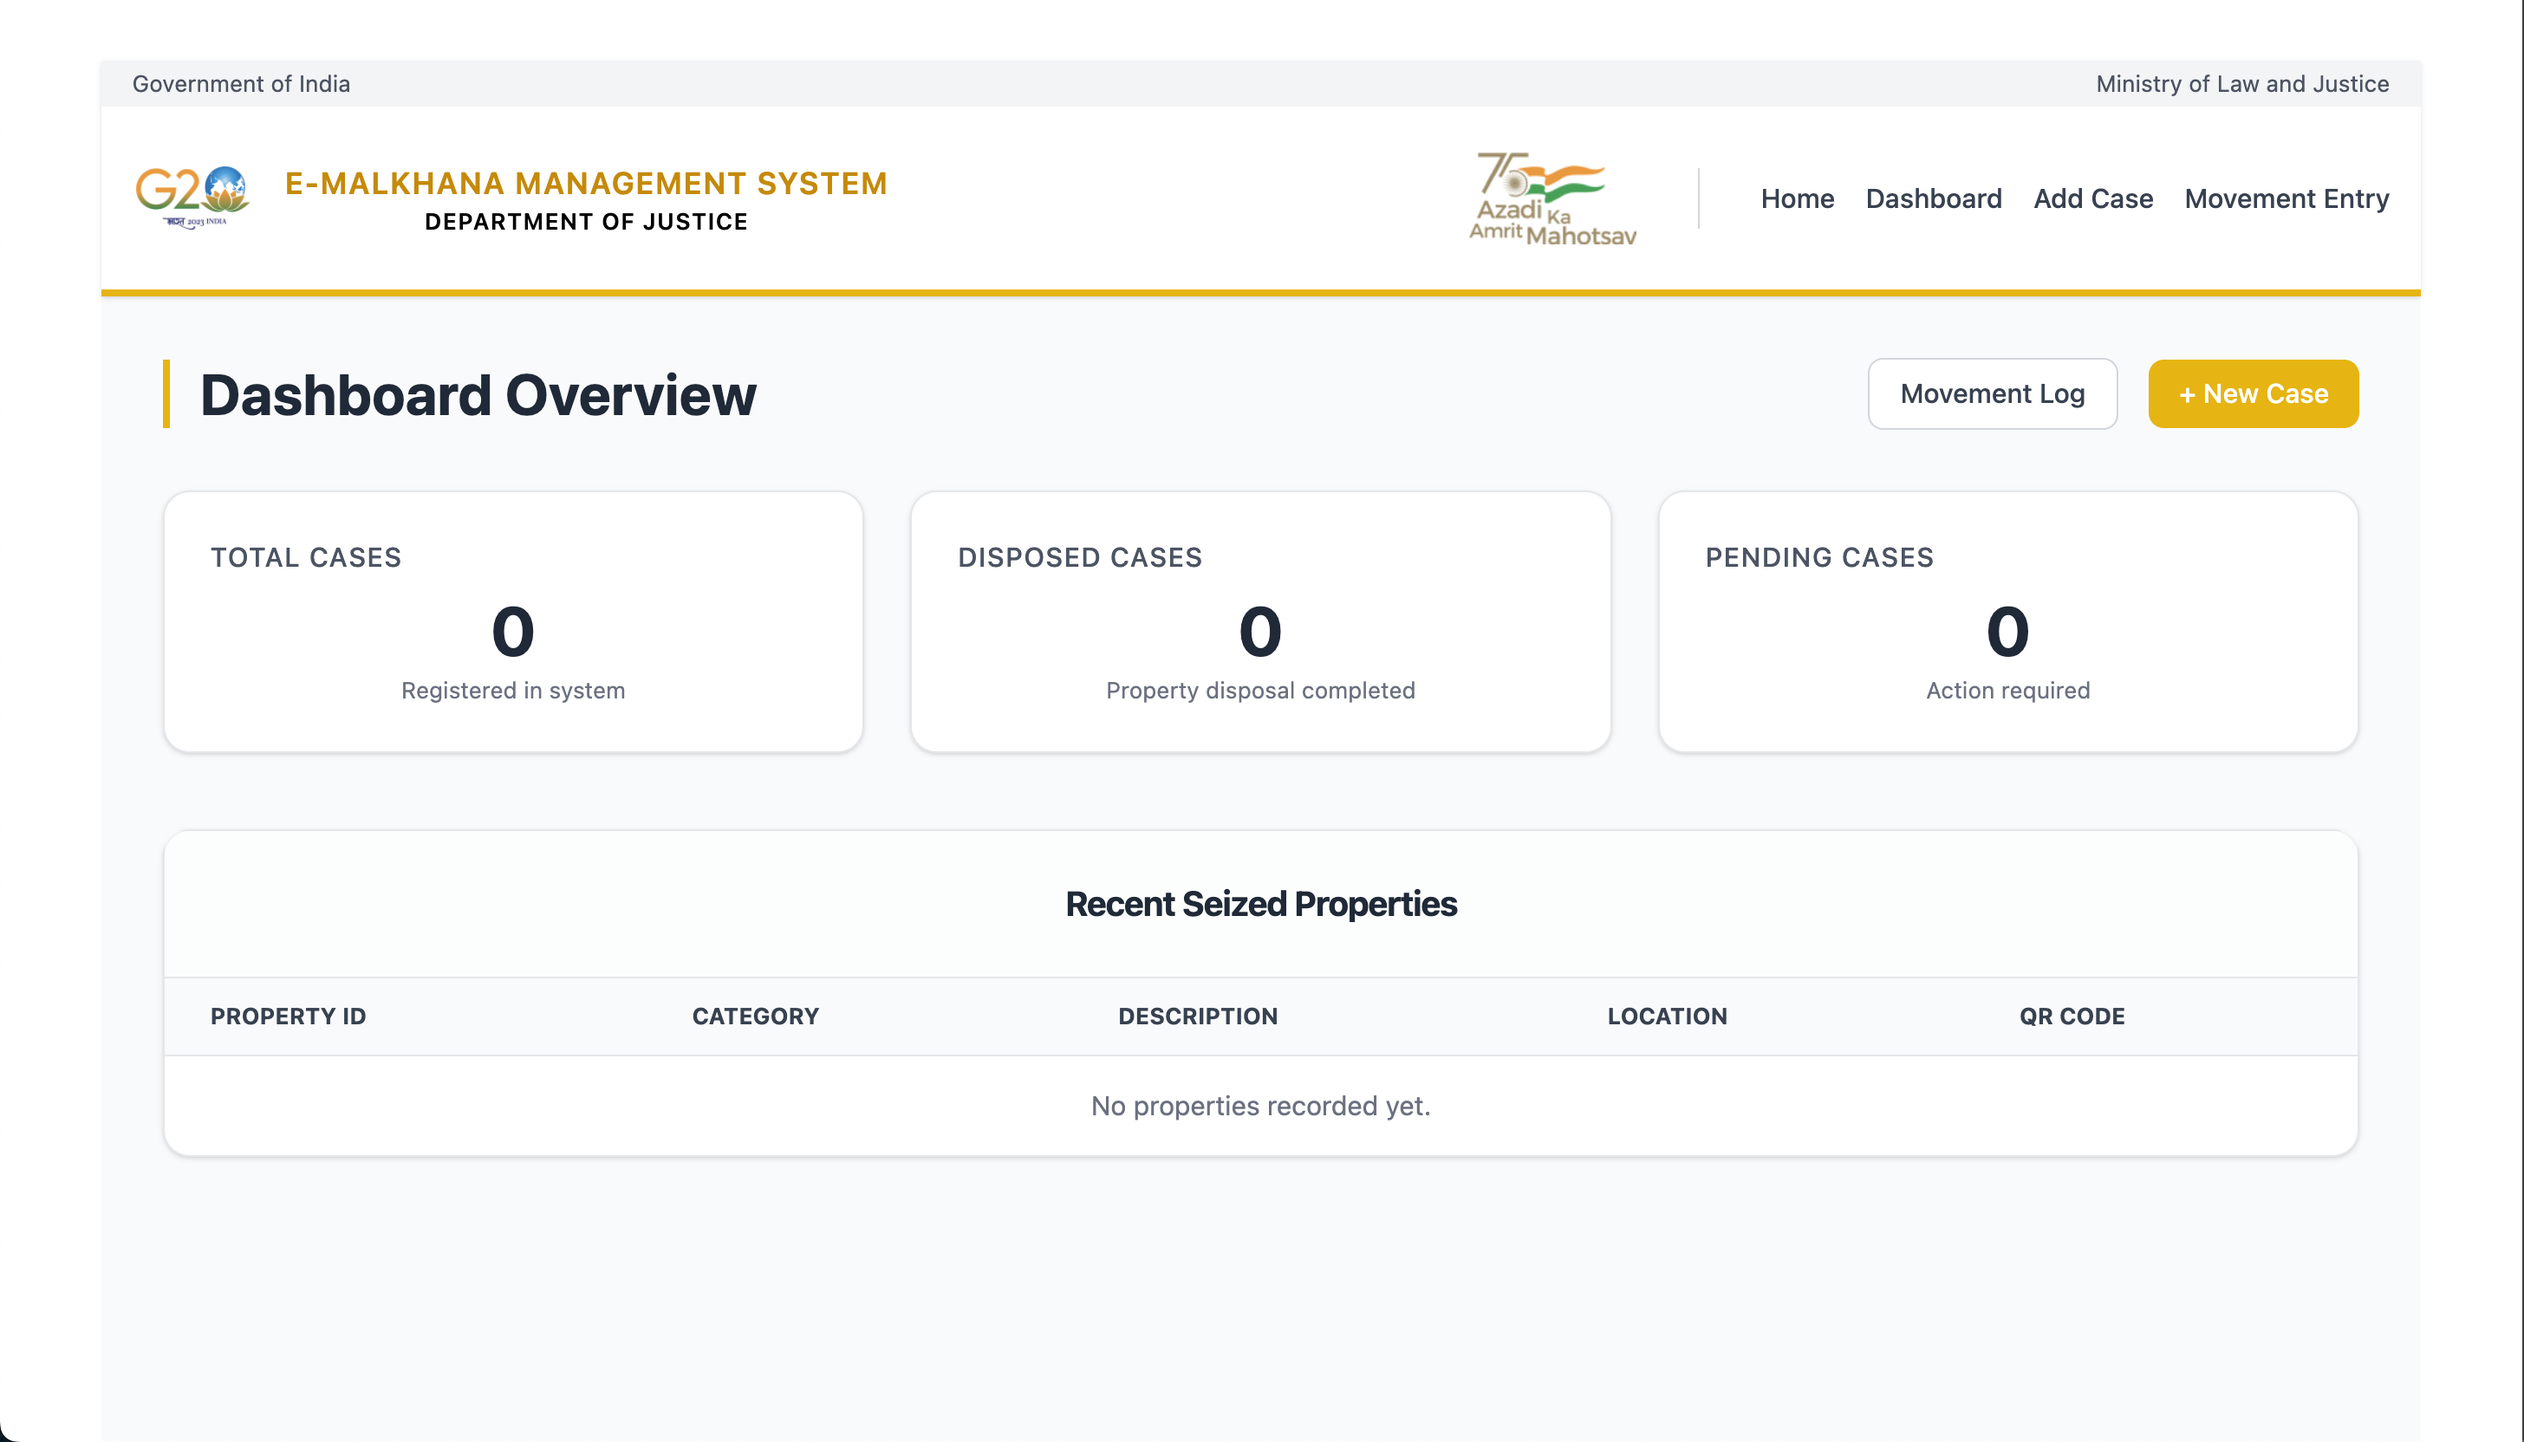
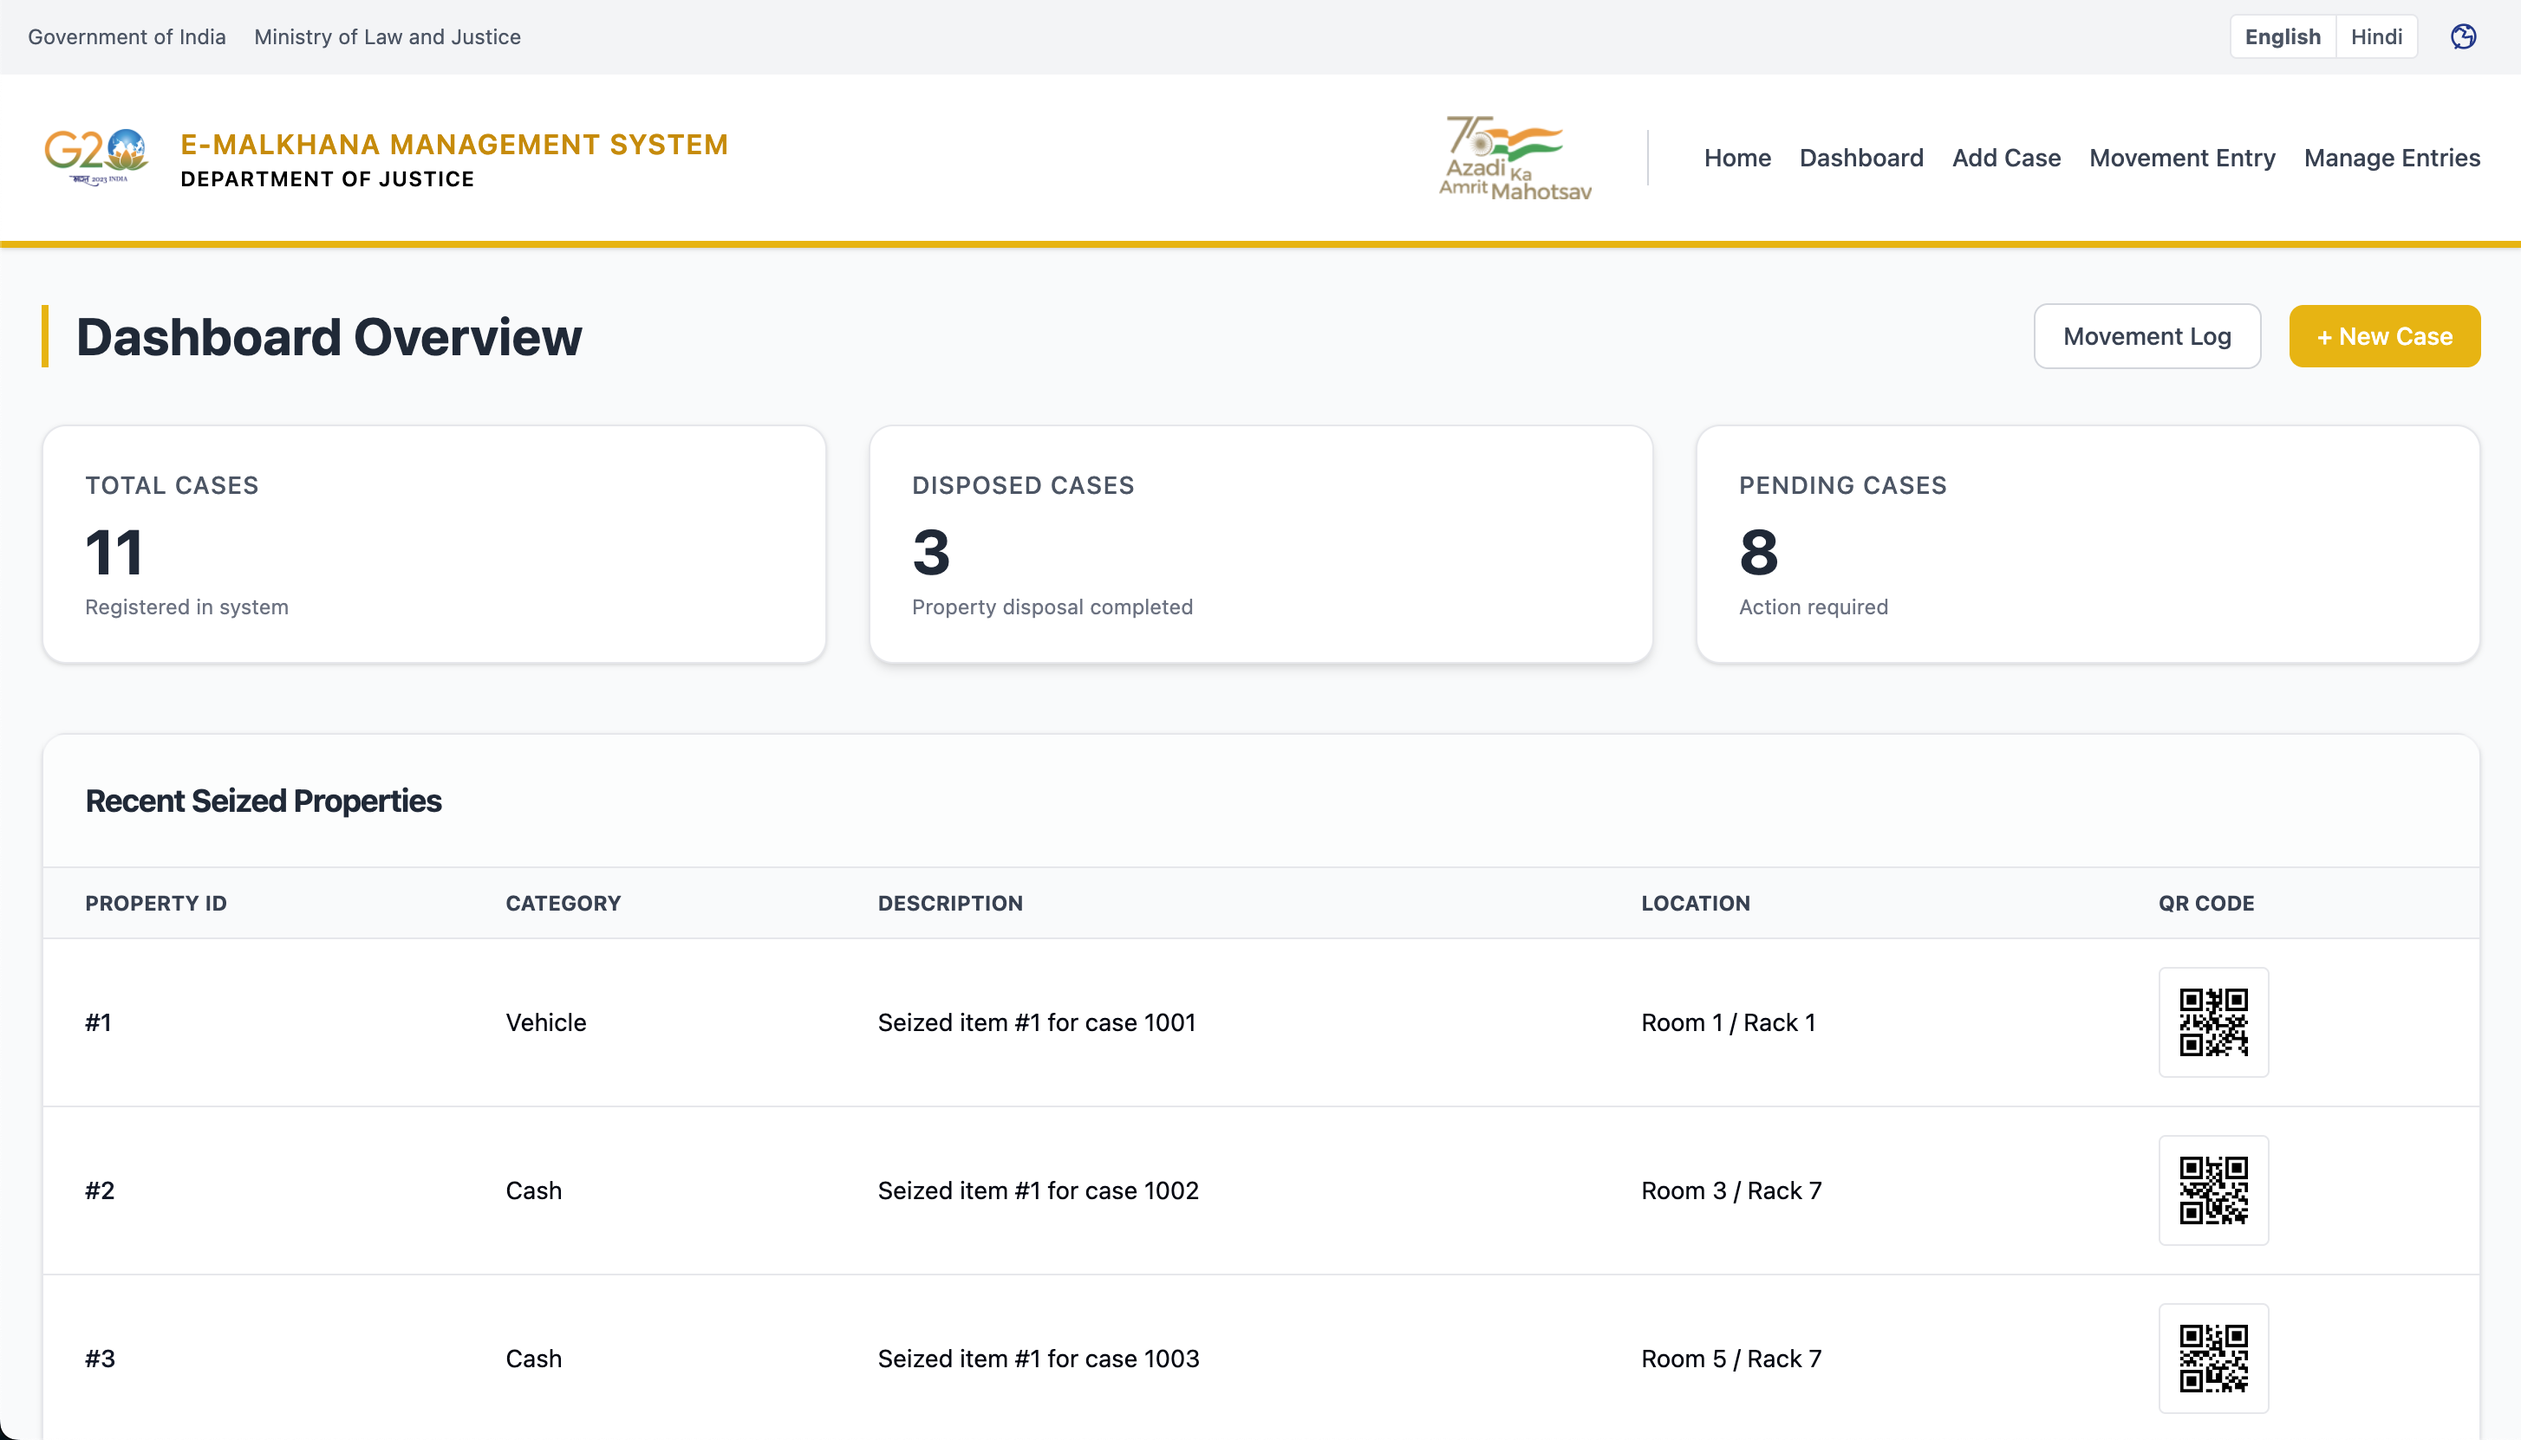
populated with dataset, readme was updated with updated website, populate_cases was rectified

diff --git a/backend/populate_cases.py b/backend/populate_cases.py
@@ -1,0 +1,56 @@
+import os
+import django
+import random
+from datetime import date
+
+os.environ.setdefault('DJANGO_SETTINGS_MODULE', 'backend.settings')
+django.setup()
+
+from inventory.models import Case, Property
+
+def populate_cases():
+    print("Clearing existing cases (and properties)...")
+    Case.objects.all().delete()
+    
+    stations = ['Central PS', 'North PS', 'Cyber Cell', 'Traffic HQ']
+    officers = ['Insp. Rajesh Kumar', 'SI. Amit Singh', 'Insp. Priya Sharma', 'SI. John Doe']
+    acts = ['IPC', 'NDPS Act', 'Arms Act']
+    
+    prop_categories = ['Mobile Phone', 'Laptop', 'Cash', 'Jewelry', 'Vehicle', 'Document']
+    belonging_to_opts = ['ACCUSED', 'COMPLAINANT', 'UNKNOWN']
+    natures = ['Electronic', 'Valuable', 'Vehicle', 'Documentary']
+    
+    print("Creating 11 sample cases with properties...")
+    
+    for i in range(1, 12):
+        case = Case.objects.create(
+            police_station=random.choice(stations),
+            investigating_officer_name=random.choice(officers),
+            investigating_officer_id=f"OFF-{100+i}",
+            crime_number=f"{1000+i}",
+            crime_year=2024,
+            date_of_fir=date(2024, 1, 15),
+            date_of_seizure=date(2024, 1, 16),
+            act_and_law=random.choice(acts),
+            section_of_law="379/411",
+            status="PENDING" if i % 3 != 0 else "DISPOSED"
+        )
+        print(f"Created Case: {case}")
+        
+        num_props = random.randint(1, 2)
+        for j in range(num_props):
+            prop = Property.objects.create(
+                case=case,
+                category=random.choice(prop_categories),
+                belonging_to=random.choice(belonging_to_opts),
+                nature_of_property=random.choice(natures),
+                quantity_units="1 Unit",
+                location=f"Room {random.randint(1,5)} / Rack {random.randint(1,10)}",
+                description=f"Seized item #{j+1} for case {case.crime_number}"
+            )
+            print(f"  - Added Property: {prop} (ID: {prop.id})")
+
+    print("\nSuccessfully populated 11 cases and properties with QR codes.")
+
+if __name__ == "__main__":
+    populate_cases()

diff --git a/README.md b/README.md
@@ -72,9 +72,12 @@ Visit `http://localhost:5173` to view the application.
 | ![Login](frontend/public/login_page.png) | ![Dashboard](frontend/public/dashboard_view.png) |
 
 ### 2. Case Management
-| Case Entry | Property Movement (Chain of Custody) |
-| :---: | :---: |
-| ![Case Entry](frontend/public/case_entry.png) | ![Movement](frontend/public/property_movement.png) |
+| Case Entry | Property Movement (Chain of Custody)
+[Case Entry](frontend/public/case_entry.png) [Movement](frontend/public/property_movement.png)
+[managing enteries](frontend/public/manage_entry.png)
+
+[property movement](frontend/public/property_movement.png)
+
 
 
 
